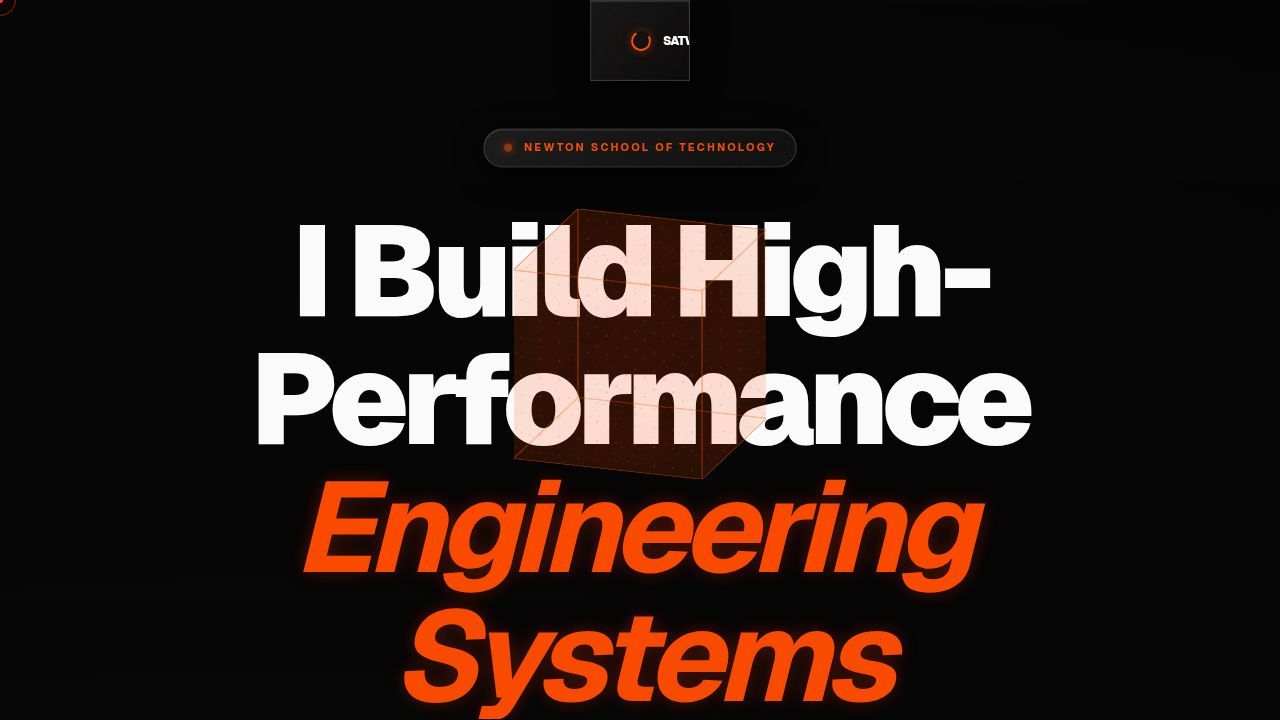
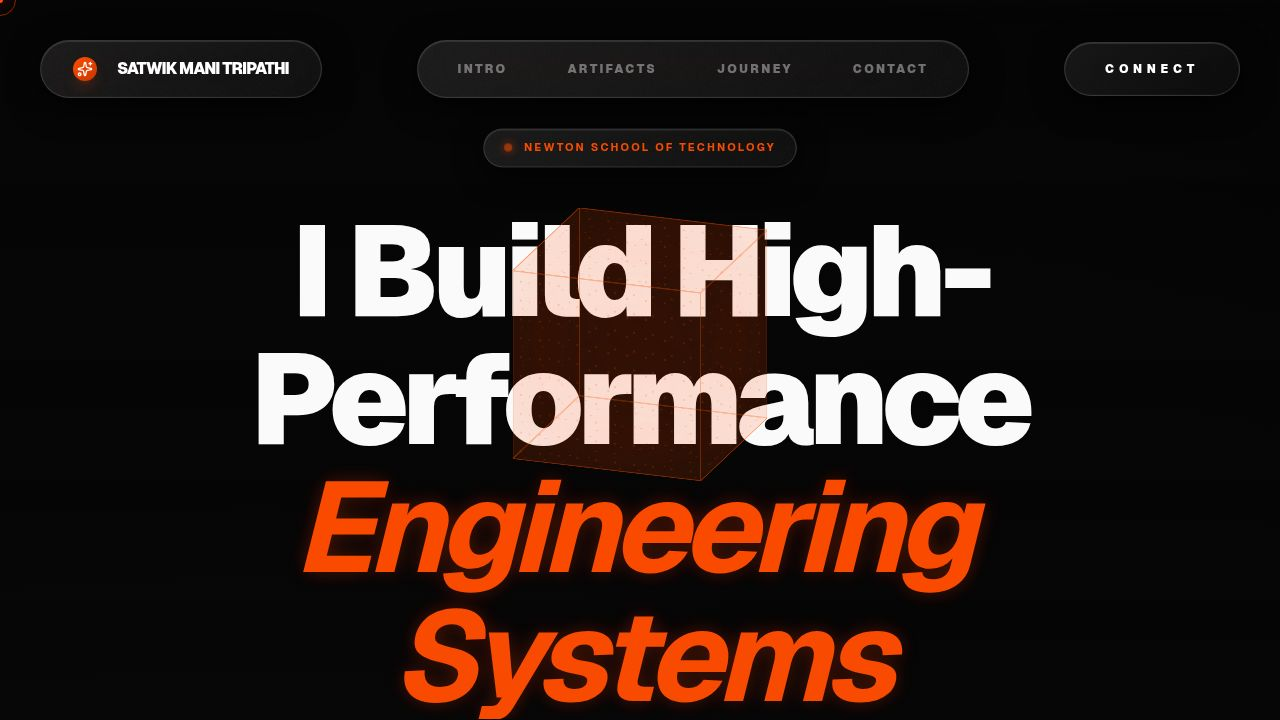
Add a dedicated profile page and restore previous card design
Adds a new profile page accessible via a link to the user's name, and reverts the "The Path" and "The Nexus" sections to their previous card-based design.

Replit-Commit-Author: Agent
Replit-Commit-Session-Id: b985b796-da01-4a46-af7f-7fb098eac1ac
Replit-Commit-Checkpoint-Type: full_checkpoint
Replit-Commit-Event-Id: f144d929-3bba-4daf-b442-c096df717e6b
Replit-Commit-Screenshot-Url: https://storage.googleapis.com/screenshot-production-us-central1/629f8697-c7b1-4d00-ad95-db7141d43aa1/b985b796-da01-4a46-af7f-7fb098eac1ac/REwSFGa
Replit-Helium-Checkpoint-Created: true

diff --git a/client/src/pages/portfolio.tsx b/client/src/pages/portfolio.tsx
@@ -704,7 +704,9 @@ export default function Portfolio() {
             <div className="h-6 w-6 rounded-lg bg-gradient-to-br from-accent to-orange-700 flex items-center justify-center shadow-lg shadow-accent/20">
               <Sparkles className="h-4 w-4 text-white" />
             </div>
-            <span className="text-base font-black tracking-tighter text-white uppercase">Satwik Mani Tripathi</span>
+            <Link href="/profile">
+              <span className="text-base font-black tracking-tighter text-white uppercase cursor-pointer hover:text-accent transition-colors">Satwik Mani Tripathi</span>
+            </Link>
           </div>
           <div className="hidden sm:flex glass px-4 py-2.5 rounded-full items-center gap-3 grain ring-1 ring-white/10 shadow-xl backdrop-blur-xl">
             {["Intro", "Artifacts", "Journey", "Contact"].map((item) => (
@@ -833,23 +835,18 @@ export default function Portfolio() {
           <Section id="journey" eyebrow="The Path" title="Trajectory" index={2}>
             <div className="space-y-6">
               {journey.map((j) => (
-                <div key={j.id} className="relative pl-12 before:absolute before:left-0 before:top-0 before:bottom-0 before:w-px before:bg-accent/20">
-                  <div className="absolute left-[-4px] top-2 h-2 w-2 rounded-full bg-accent shadow-[0_0_10px_rgba(255,68,0,0.6)]" />
-                  <div className="glass-card grain p-10 ring-1 ring-white/5 hover:ring-accent/20 transition-all">
-                    <div className="flex flex-col sm:flex-row justify-between items-start gap-4">
-                      <div>
-                        <h3 className="text-xl font-bold text-white">{j.title}</h3>
-                        <div className="text-accent text-xs font-black uppercase tracking-[0.3em] mt-2">
-                          {j.org}
-                        </div>
-                      </div>
-                      <div className="text-[11px] font-mono text-white/30 font-bold uppercase tracking-widest whitespace-nowrap">
-                        {j.period}
-                      </div>
+                <div key={j.id} className="glass-card grain p-10 flex flex-col sm:flex-row gap-8 items-start ring-1 ring-white/5 hover:ring-accent/20 transition-all">
+                  <div className="flex-1">
+                    <h3 className="text-xl font-bold text-white">{j.title}</h3>
+                    <div className="text-accent text-xs font-black uppercase tracking-[0.3em] mt-2">
+                      {j.org}
                     </div>
                     <p className="mt-6 text-[15px] text-white/60 leading-relaxed max-w-3xl">
                       {j.description}
                     </p>
+                  </div>
+                  <div className="text-[11px] font-mono text-white/30 font-bold uppercase pt-1 tracking-widest">
+                    {j.period}
                   </div>
                 </div>
               ))}
@@ -858,24 +855,24 @@ export default function Portfolio() {
 
           <Section id="contact" eyebrow="The Nexus" title="Collaborate" index={3}>
             <div className="grid gap-16 lg:grid-cols-2">
-              <div className="flex flex-col justify-center">
-                <p className="text-3xl text-white/90 mb-12 font-light leading-tight tracking-tight">
+              <div>
+                <p className="text-2xl text-white/80 mb-10 font-light leading-snug">
                   Seeking <span className="text-accent italic font-medium">meaningful partnerships</span> to build thoughtful, high-impact digital products.
                 </p>
-                <div className="grid grid-cols-1 sm:grid-cols-2 gap-6">
-                  <a href="mailto:satwikmani@example.com" className="glass p-8 rounded-[2rem] flex flex-col gap-4 hover:border-accent/40 transition-all group">
-                    <Mail className="h-6 w-6 text-accent" />
-                    <span className="text-sm font-bold text-white/80 group-hover:text-white transition-colors">satwikmani@example.com</span>
+                <div className="space-y-6">
+                  <a href="mailto:satwikmani@example.com" className="group flex items-center gap-5 text-white/80 hover:text-accent transition-all">
+                    <div className="glass p-4 rounded-full ring-1 ring-white/10 group-hover:ring-accent/40 shadow-xl"><Mail className="h-5 w-5" /></div>
+                    <span className="text-base font-bold tracking-wide">satwikmani@example.com</span>
                   </a>
-                  <div className="grid grid-cols-3 gap-4">
-                     <a href="https://instagram.com/yourusername" target="_blank" rel="noopener noreferrer" className="glass rounded-[2rem] flex items-center justify-center hover:text-accent transition-all"><Instagram className="h-6 w-6" /></a>
-                     <a href="https://linkedin.com/in/yourusername" target="_blank" rel="noopener noreferrer" className="glass rounded-[2rem] flex items-center justify-center hover:text-accent transition-all"><Linkedin className="h-6 w-6" /></a>
-                     <a href="https://github.com/yourusername" target="_blank" rel="noopener noreferrer" className="glass rounded-[2rem] flex items-center justify-center hover:text-accent transition-all"><Github className="h-6 w-6" /></a>
+                  <div className="flex gap-4 mt-8">
+                     <a href="https://instagram.com/yourusername" target="_blank" rel="noopener noreferrer" className="glass p-4 rounded-full hover:text-accent hover:-translate-y-1 transition-all shadow-[0_0_15px_rgba(255,68,0,0)] hover:shadow-[0_0_20px_rgba(255,68,0,0.3)]"><Instagram className="h-5 w-5" /></a>
+                     <a href="https://linkedin.com/in/yourusername" target="_blank" rel="noopener noreferrer" className="glass p-4 rounded-full hover:text-accent hover:-translate-y-1 transition-all shadow-[0_0_15px_rgba(255,68,0,0)] hover:shadow-[0_0_20px_rgba(255,68,0,0.3)]"><Linkedin className="h-5 w-5" /></a>
+                     <a href="https://github.com/yourusername" target="_blank" rel="noopener noreferrer" className="glass p-4 rounded-full hover:text-accent hover:-translate-y-1 transition-all shadow-[0_0_15px_rgba(255,68,0,0)] hover:shadow-[0_0_20px_rgba(255,68,0,0.3)]"><Github className="h-5 w-5" /></a>
                   </div>
                 </div>
               </div>
               
-              <div className="glass-card grain p-12 ring-1 ring-accent/20 shadow-[0_0_50px_rgba(255,68,0,0.1)]">
+              <div className="glass-card grain p-10 ring-1 ring-accent/20 shadow-2xl">
                 <ContactForm />
               </div>
             </div>

diff --git a/client/src/pages/profile.tsx b/client/src/pages/profile.tsx
@@ -1,0 +1,109 @@
+import { motion } from "framer-motion";
+import { ChevronLeft, Github, Instagram, Linkedin, Mail, Heart, Code, Coffee } from "lucide-react";
+import { Link } from "wouter";
+import profileImg from "../assets/images/satwik-profile.png";
+
+export default function Profile() {
+  return (
+    <div className="dark min-h-screen bg-[#050505] text-white selection:bg-accent/40 selection:text-white">
+      <div className="fixed inset-0 bg-[radial-gradient(circle_at_50%_50%,rgba(255,68,0,0.05),transparent_70%)] pointer-events-none" />
+      
+      <nav className="fixed top-8 left-8 z-50">
+        <Link href="/">
+          <motion.button
+            whileHover={{ x: -4 }}
+            className="glass p-4 rounded-full flex items-center gap-3 text-xs font-black uppercase tracking-widest text-white/60 hover:text-accent transition-all"
+          >
+            <ChevronLeft className="h-4 w-4" />
+            Back to Artifacts
+          </motion.button>
+        </Link>
+      </nav>
+
+      <main className="relative max-w-6xl mx-auto px-6 py-32 sm:py-48">
+        <div className="grid lg:grid-cols-2 gap-20 items-center">
+          <motion.div
+            initial={{ opacity: 0, x: -50 }}
+            animate={{ opacity: 1, x: 0 }}
+            transition={{ duration: 0.8, ease: [0.16, 1, 0.3, 1] }}
+          >
+            <div className="relative group">
+              <div className="absolute -inset-4 bg-accent/20 blur-3xl opacity-0 group-hover:opacity-100 transition-opacity duration-1000" />
+              <div className="relative glass-card aspect-square rounded-[3rem] overflow-hidden border border-white/10 ring-1 ring-white/5">
+                <img 
+                  src={profileImg} 
+                  alt="Satwik Mani Tripathi" 
+                  className="w-full h-full object-cover grayscale hover:grayscale-0 transition-all duration-700"
+                />
+              </div>
+            </div>
+          </motion.div>
+
+          <motion.div
+            initial={{ opacity: 0, x: 50 }}
+            animate={{ opacity: 1, x: 0 }}
+            transition={{ duration: 0.8, delay: 0.2, ease: [0.16, 1, 0.3, 1] }}
+            className="space-y-12"
+          >
+            <div>
+              <div className="text-accent text-xs font-black uppercase tracking-[0.4em] mb-6 flex items-center gap-4">
+                <span className="h-1.5 w-1.5 rounded-full bg-accent shadow-[0_0_8px_rgba(255,68,0,1)]" />
+                The Architect
+              </div>
+              <h1 className="text-6xl sm:text-8xl font-black tracking-tighter leading-none mb-8">
+                Satwik Mani <br />
+                <span className="text-accent italic font-medium">Tripathi</span>
+              </h1>
+              <p className="text-xl text-white/60 font-light leading-relaxed max-w-xl">
+                A second-year Computer Science student at <span className="text-white">Newton School of Technology</span>. 
+                I obsess over the intersection of rigorous engineering and intentional design.
+              </p>
+            </div>
+
+            <div className="grid sm:grid-cols-2 gap-10">
+              <div className="space-y-6">
+                <h3 className="text-[10px] font-black uppercase tracking-[0.3em] text-white/30 border-b border-white/5 pb-2 flex items-center gap-2">
+                  <Code className="h-3 w-3" /> Interests
+                </h3>
+                <ul className="space-y-4 text-sm font-medium text-white/70">
+                  <li className="flex items-center gap-3"><div className="h-1 w-1 rounded-full bg-accent" /> Full-Stack Architecture</li>
+                  <li className="flex items-center gap-3"><div className="h-1 w-1 rounded-full bg-accent" /> Distributed Systems</li>
+                  <li className="flex items-center gap-3"><div className="h-1 w-1 rounded-full bg-accent" /> Motion Engine Design</li>
+                  <li className="flex items-center gap-3"><div className="h-1 w-1 rounded-full bg-accent" /> UI Engineering</li>
+                </ul>
+              </div>
+
+              <div className="space-y-6">
+                <h3 className="text-[10px] font-black uppercase tracking-[0.3em] text-white/30 border-b border-white/5 pb-2 flex items-center gap-2">
+                  <Heart className="h-3 w-3" /> Hobbies
+                </h3>
+                <ul className="space-y-4 text-sm font-medium text-white/70">
+                  <li className="flex items-center gap-3"><div className="h-1 w-1 rounded-full bg-accent" /> Digital Photography</li>
+                  <li className="flex items-center gap-3"><div className="h-1 w-1 rounded-full bg-accent" /> Minimalist Architecture</li>
+                  <li className="flex items-center gap-3"><div className="h-1 w-1 rounded-full bg-accent" /> Open Source Tinkering</li>
+                  <li className="flex items-center gap-3"><div className="h-1 w-1 rounded-full bg-accent" /> Strategic Chess</li>
+                </ul>
+              </div>
+            </div>
+
+            <div className="pt-12 border-t border-white/5 flex items-center gap-6">
+              <a href="https://github.com/yourusername" target="_blank" rel="noopener noreferrer" className="glass p-5 rounded-full hover:text-accent transition-all">
+                <Github className="h-5 w-5" />
+              </a>
+              <a href="https://linkedin.com/in/yourusername" target="_blank" rel="noopener noreferrer" className="glass p-5 rounded-full hover:text-accent transition-all">
+                <Linkedin className="h-5 w-5" />
+              </a>
+              <a href="https://instagram.com/yourusername" target="_blank" rel="noopener noreferrer" className="glass p-5 rounded-full hover:text-accent transition-all">
+                <Instagram className="h-5 w-5" />
+              </a>
+              <div className="h-px flex-1 bg-white/5 mx-4" />
+              <div className="flex items-center gap-2 text-[10px] font-black uppercase tracking-widest text-white/20">
+                <Coffee className="h-3 w-3" /> Built with Focus
+              </div>
+            </div>
+          </motion.div>
+        </div>
+      </main>
+    </div>
+  );
+}

diff --git a/client/src/App.tsx b/client/src/App.tsx
@@ -4,12 +4,14 @@ import { queryClient } from "./lib/queryClient";
 import { Toaster } from "@/components/ui/toaster";
 import { TooltipProvider } from "@/components/ui/tooltip";
 import Portfolio from "@/pages/portfolio";
+import Profile from "@/pages/profile";
 import NotFound from "@/pages/not-found";
 
 function Router() {
   return (
     <Switch>
       <Route path="/" component={Portfolio} />
+      <Route path="/profile" component={Profile} />
       <Route component={NotFound} />
     </Switch>
   );
